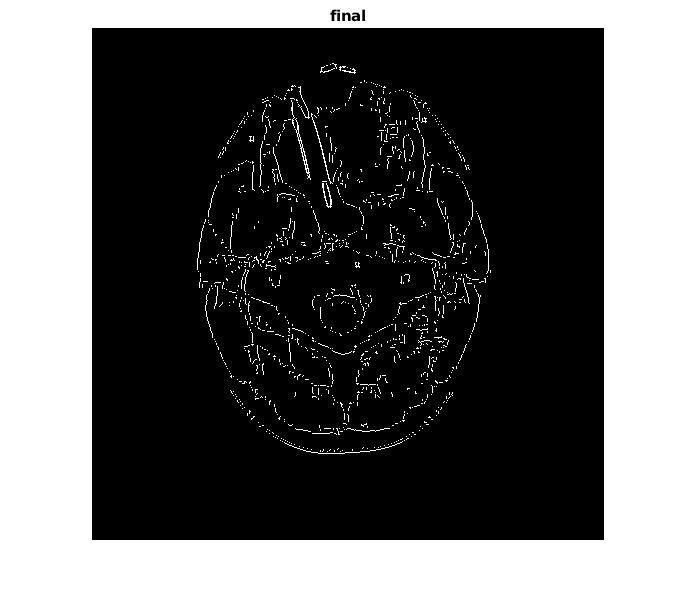
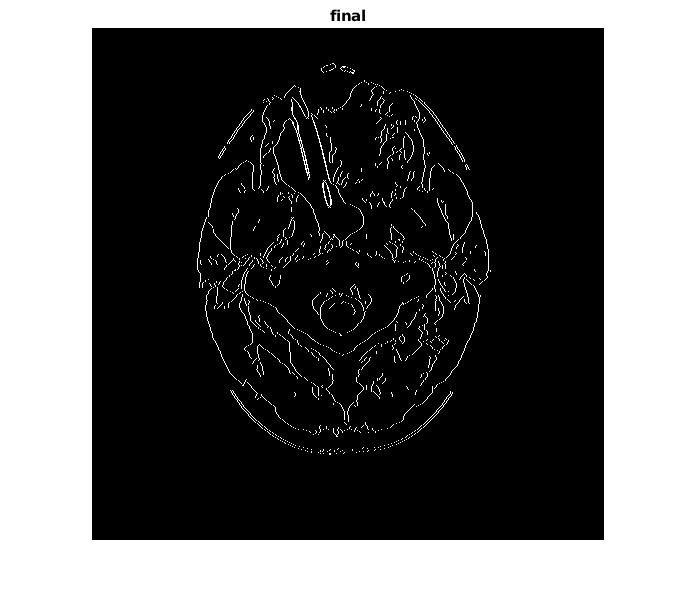
corrected borders + img

diff --git a/doMagnitudeAngle.m b/doMagnitudeAngle.m
@@ -1,13 +1,17 @@
-files = dir('./images/*.png');
+%files = dir('./images/*.png');
 
-for file = files'
-    slice = imread(strcat('./images/', file.name));
-    %slice = imread('0001.png');
+%for file = files'
+  %  slice = imread(strcat('./images/', file.name));
+    slice = imread('0001.png');
 
     sigma=min(size(slice))*0.005;
     fslice = imgaussfilt(im2double(slice), sigma); %sigma is a value od standard deviation
-    %fslice= medfilt2(slice);
     figure; imshow(fslice, [min(fslice(:)),max(fslice(:))]); title('Gaussian smoothing');
+    
+    %%%%%%%%%%%%IZBOLJSAVA%%%%%%%%%%%%%%%
+   % fslice= medfilt2(slice);
+   % figure; imshow(fslice, [min(fslice(:)),max(fslice(:))]); title('Median smoothing');
+    %%%%%%%%%%%%%%%%%%%%%%%%%%%%%%%%%%%%%
 
     % Prewitt mask/cross
     kx = [-1 0 +1; -1 0 +1; -1 0 +1];
@@ -36,13 +40,13 @@ for file = files'
 
     for i=1:x
         for j=1:y
-            if ((ang(i,j) > 0) && (ang(i,j) < 22.5) || (ang(i,j) > 157.5) && (ang(i,j) < -157.5))
+            if ((ang(i,j) >= -22.5) && (ang(i,j) <= 22.5) || (ang(i,j) <= 157.5) && (ang(i,j) >= -157.5))
                 ang_1(i,j) = 0;
             elseif ((ang(i,j) > 22.5) && (ang(i,j) < 67.5) || (ang(i,j) < -112.5) && (ang(i,j) > -157.5))
                 ang_1(i,j) = 45;
-            elseif ((ang(i,j) > 67.5 && ang(i,j) < 112.5) || (ang(i,j) < -67.5 && ang(i,j) > 112.5))
+            elseif ((ang(i,j) >= 67.5 && ang(i,j) <= 112.5) || (ang(i,j) <= -67.5 && ang(i,j) >= -112.5))
                 ang_1(i,j) = 90;       
-            elseif ((ang(i,j) > 112.5 && ang(i,j) <= 157.5) || (ang(i,j) < -22.5 && ang(i,j) > -67.5))
+            elseif ((ang(i,j) > 112.5 && ang(i,j) < 157.5) || (ang(i,j) < -22.5 && ang(i,j) > -67.5))
                 ang_1(i,j) = 135;
             end
         end
@@ -92,6 +96,8 @@ for file = files'
         end
     end
 
+    
+    %%%%%%%%%%%%%%%%%%%%%%%%%%%%%%%%%%%%%%%%%%%%%%%%%IZBOLJSAVA%%%%%%%%%%%%%%%%%%%%%%%%%%%%%%%%%%%%%%%%%%%%%%%%%%%%%%%%%
     figure; imshow(T); title('Hysteresis thresholding');
 
     final = im2uint8(T);
@@ -124,5 +130,6 @@ for file = files'
     imwrite(final, strcat('0001_T1G.png'));
     %Show final edge detection result
     figure, imshow(final); title('final1');
+    %%%%%%%%%%%%%%%%%%%%%%%%%%%%%%%%%%%%%%%%%%%%%%%%%%%%%%%%%%%%%%%%%%%%%%%%%%%%%%%%%%%%%%%%%%%%%%%%%%%%%%%%%%%%%%%%%%
 
-end
+%end
